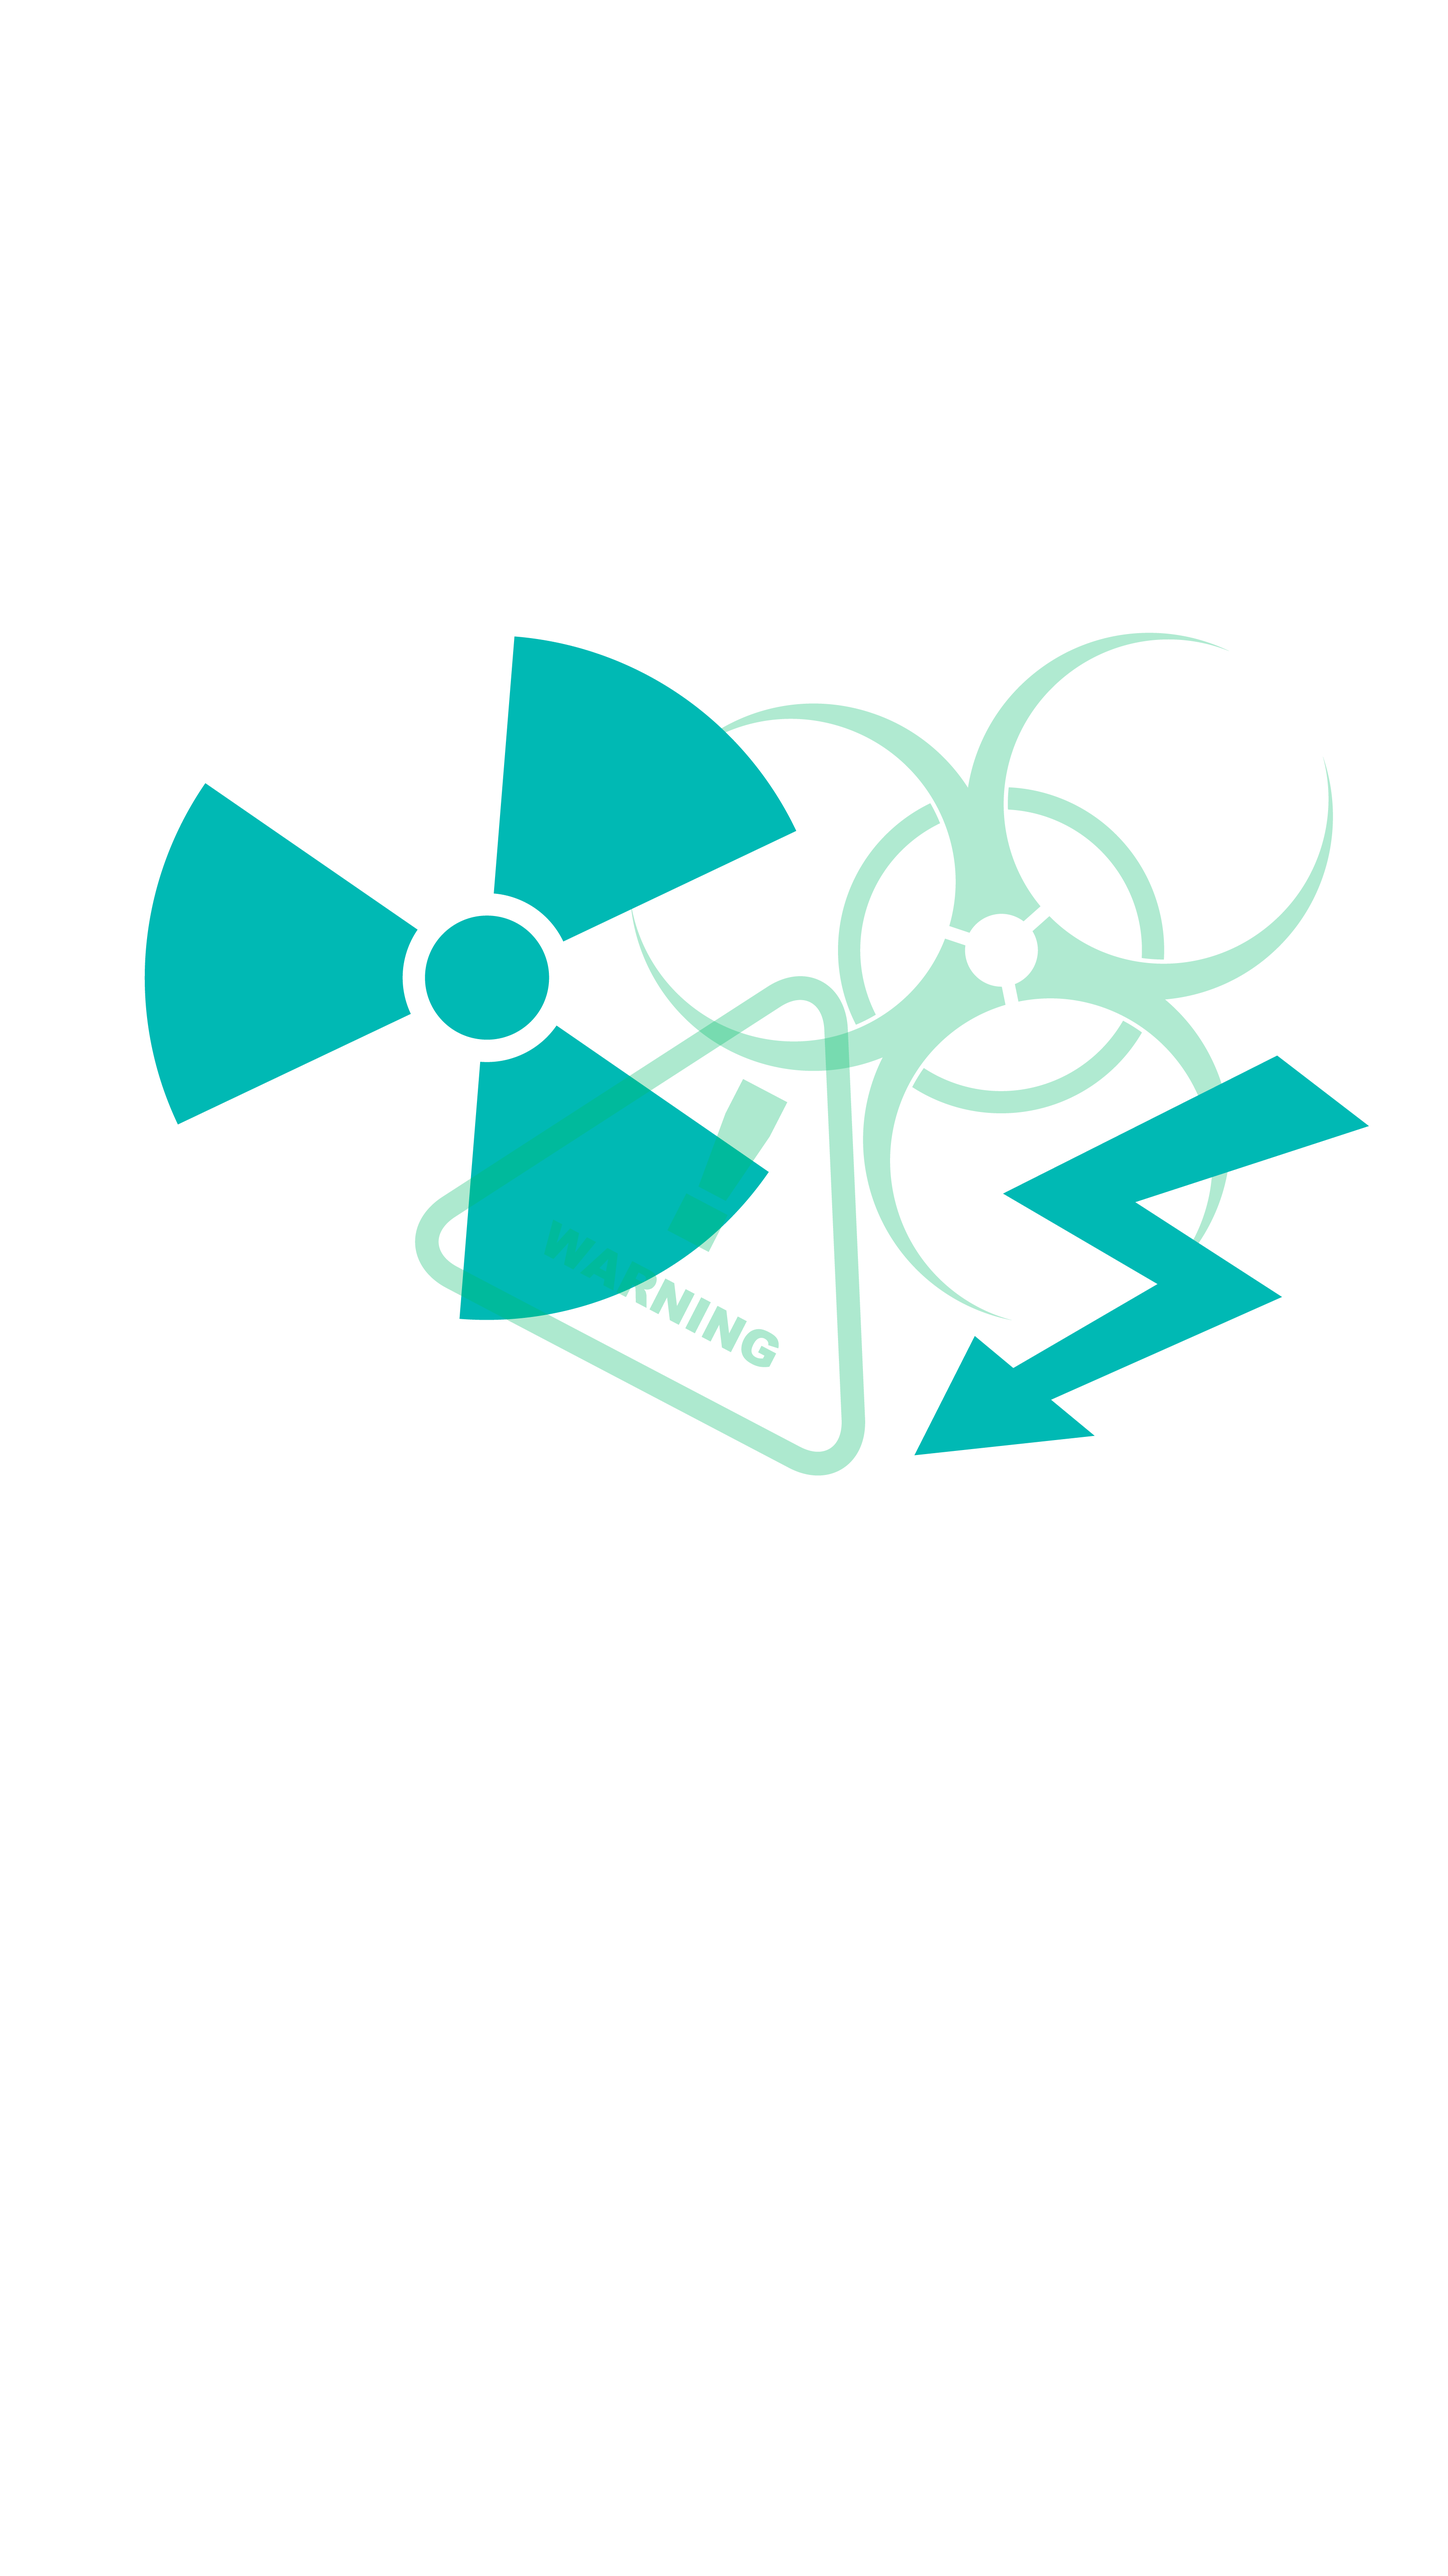
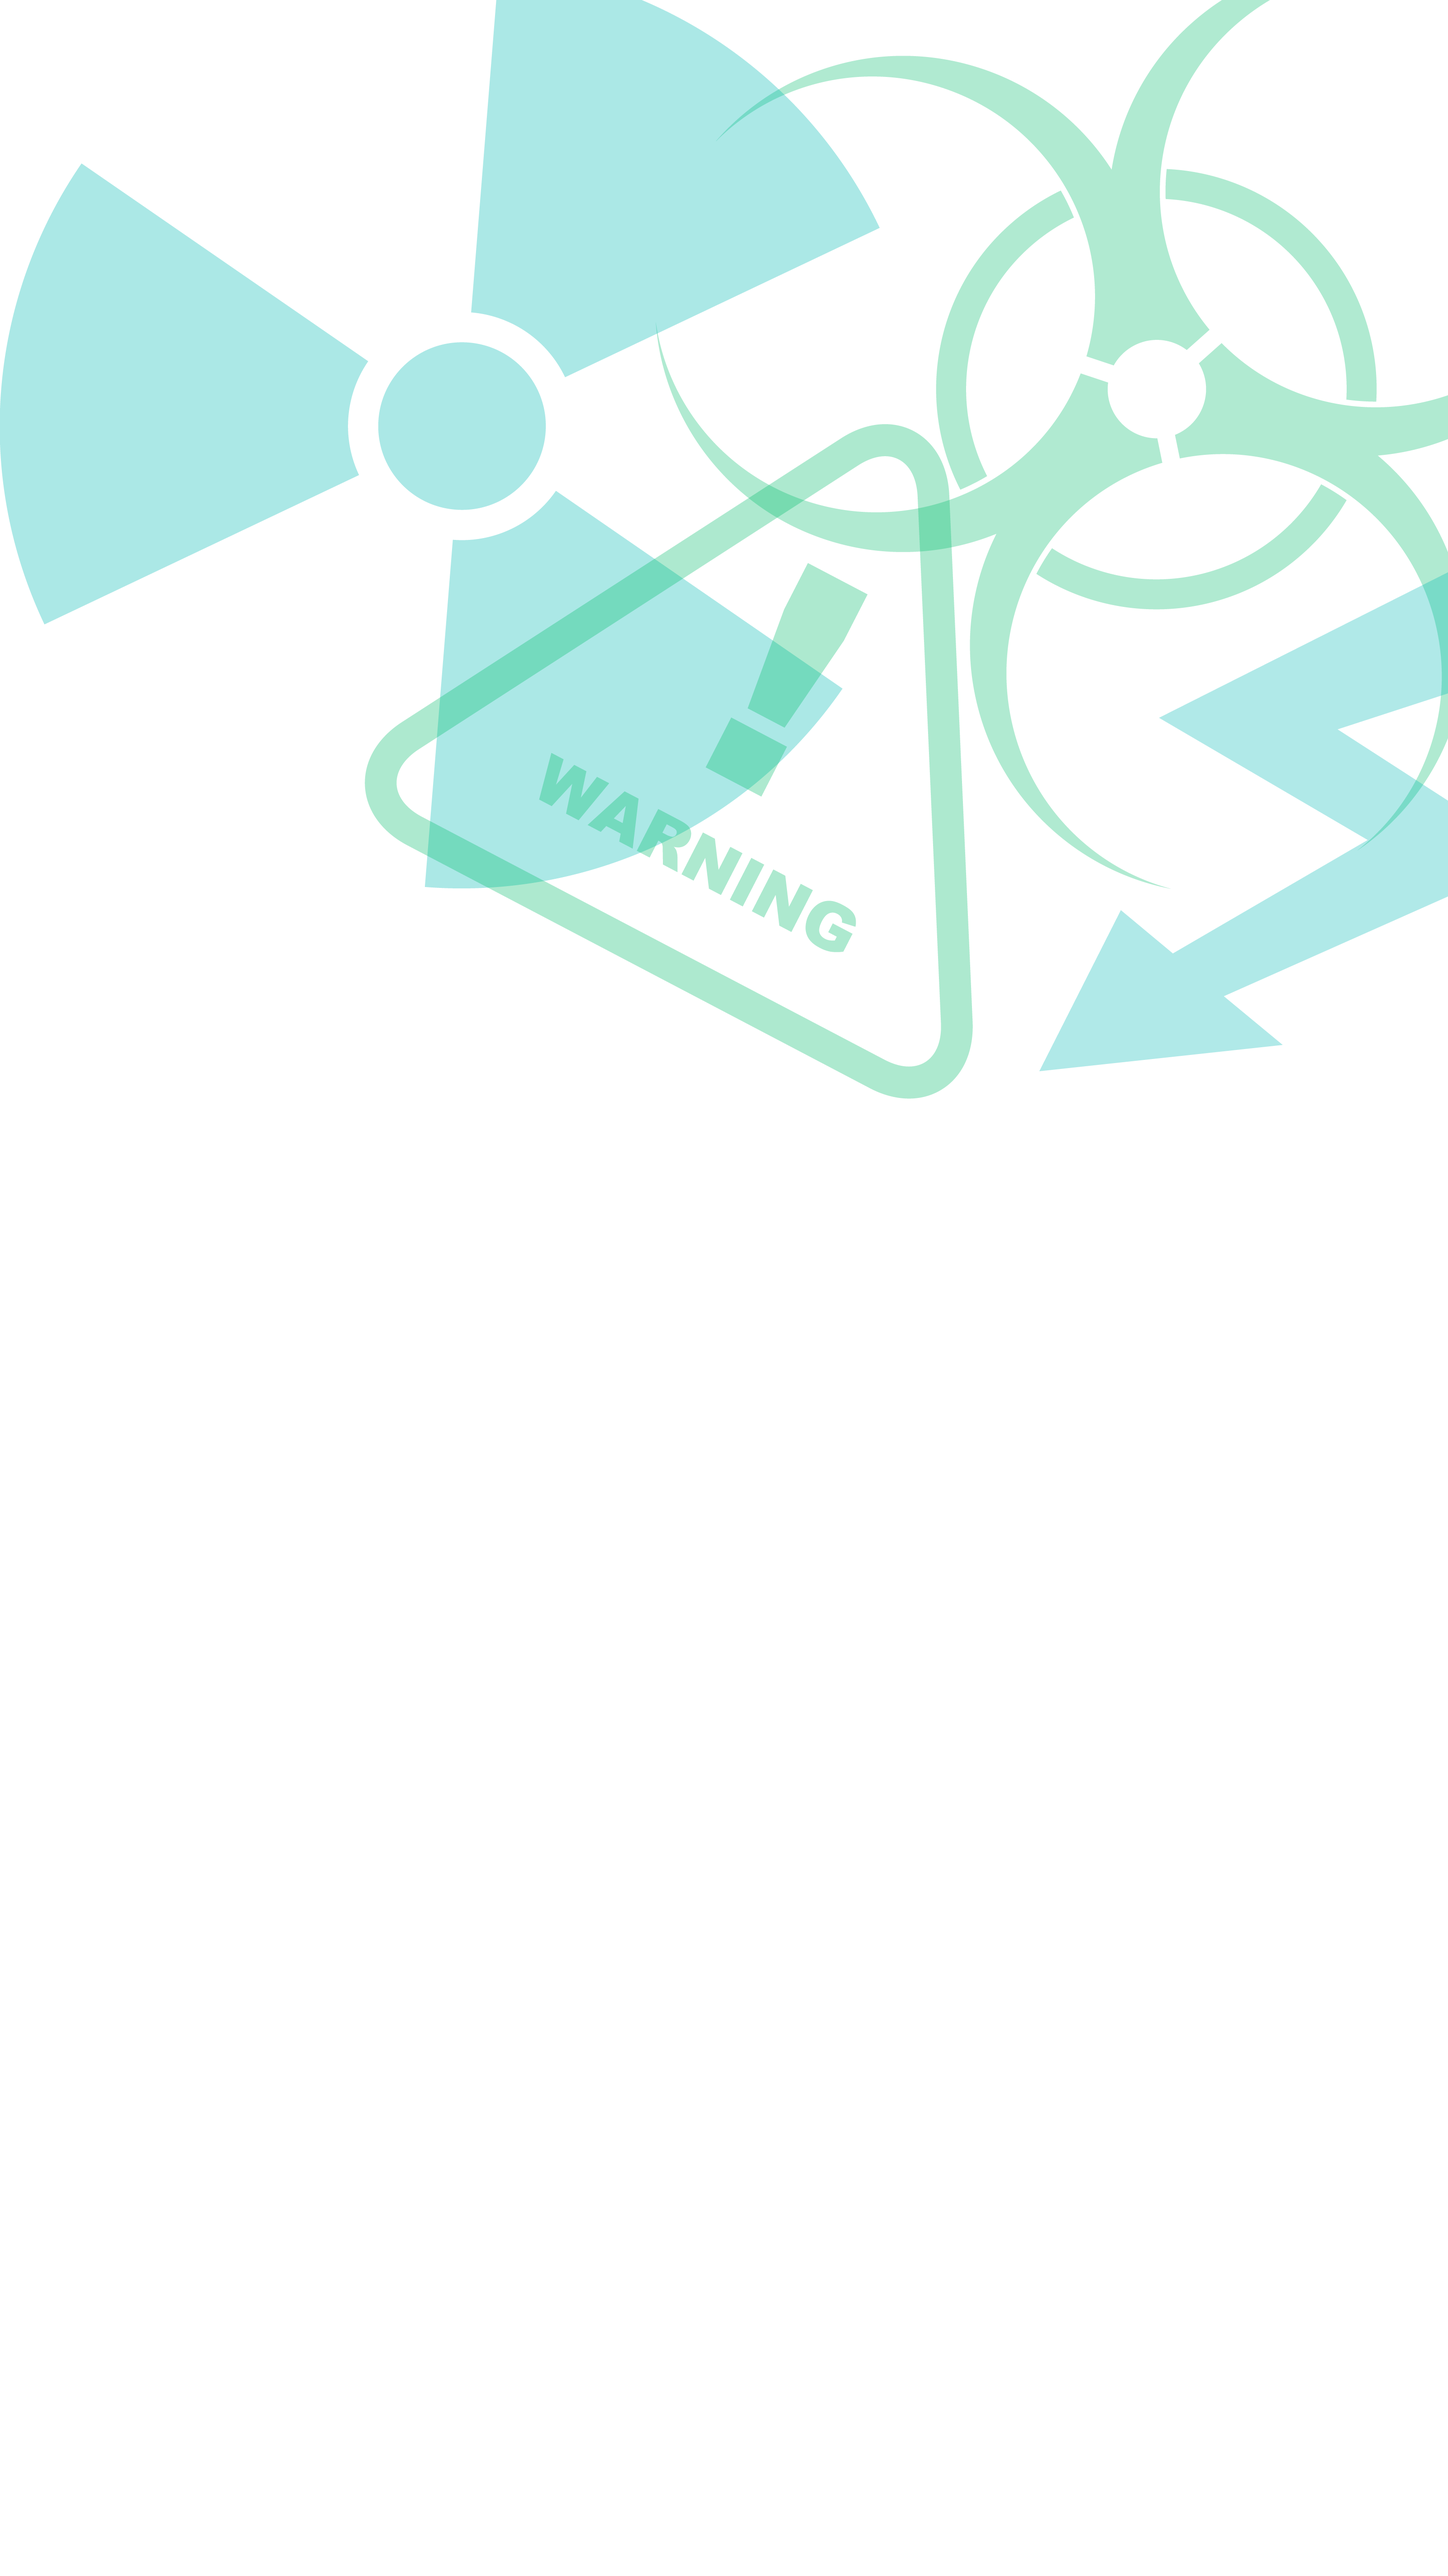
css fizes

Changed region(s): [[0.0, 0.0, 1.0, 0.5908]]

diff --git a/src/app/components/splash-screen/splash-screen.component.scss b/src/app/components/splash-screen/splash-screen.component.scss
@@ -6,18 +6,22 @@
     direction: rtl;
     background-image: url("/assets/nuricar/bg.png");
     background-repeat: no-repeat;
-    background-position: -142px -352px;
-    background-size: 647px;
+    background-position: -95px -80px;
+    background-size: 501px;
     .par {
-        margin-top: 310px;
+        margin-top: 345px;
         width: 100%;
         display: flex;
         flex-direction: column;
         align-items: center;
         .logo-div {
             text-align: center;
+            width: 100%;
+            padding-left: 35px;
+            padding-right: 2.0rem;
+            margin-bottom: 22px;
             .logo {
-                width: 425px;
+                width: 100%;
             }
         }
         p {

diff --git a/src/app/components/splash-screen/splash-screen.component.html b/src/app/components/splash-screen/splash-screen.component.html
@@ -3,7 +3,7 @@
         <div class="logo-div">
             <img class="logo" src="/assets/nuricar/logo.png"/> 
         </div>
-        <p>כל הנאמר באפליקציה זו בגדר המלצה בלבד! אין לאחז בזה חשיבות, יש להתייעץ עם גורם מוסמך או מומחה .</p>
+        <p>כל הנאמר באפליקציה זו בגדר המלצה בלבד!  אין לאחז בזה חשיבות, יש להתייעץ עם גורם מוסמך או מומחה .</p>
         <button (click)="GoToMainPage()">אשר והמשך</button>
     </div>
 </div>

diff --git a/src/index.html b/src/index.html
@@ -9,7 +9,6 @@
   <link rel="icon" type="image/x-icon" href="favicon.ico">
   <link href="https://fonts.googleapis.com/css?family=Roboto:300,400,500&display=swap" rel="stylesheet">
   <link href="https://fonts.googleapis.com/icon?family=Material+Icons" rel="stylesheet">
-  <link href="/your-path-to-fontawesome/css/all.css" rel="stylesheet"> <!--load all styles -->
   <link rel="preconnect" href="https://fonts.gstatic.com">
 <link href="https://fonts.googleapis.com/css2?family=Assistant:wght@300&display=swap" rel="stylesheet">
 

diff --git a/src/app/components/main-page/main-page.component.html b/src/app/components/main-page/main-page.component.html
@@ -1,9 +1,9 @@
 <div class="envelop">
     <div class="title-div">
-      <img class="logo" src="/assets/nuricar/logo.png"/> 
+      <img class="logo" src="/assets/nuricar/logo.jpeg"/> 
     </div>
     <div>
-      <i class="fas fa-arrow-left" style="color: #00B9B4;"></i>
+      <img class="logo" src="/assets/nuricar/left_arrow.png"/> 
     </div>
         <div class="row-dp">
           <mat-label>בחר יצרן:</mat-label>

diff --git a/src/app/components/main-page/main-page.component.scss b/src/app/components/main-page/main-page.component.scss
@@ -9,7 +9,7 @@
     .title-div {
         margin-bottom: 1rem;
         img {
-            width: 157px;
+            width: 220px;
         }
     }
     .row-dp {
